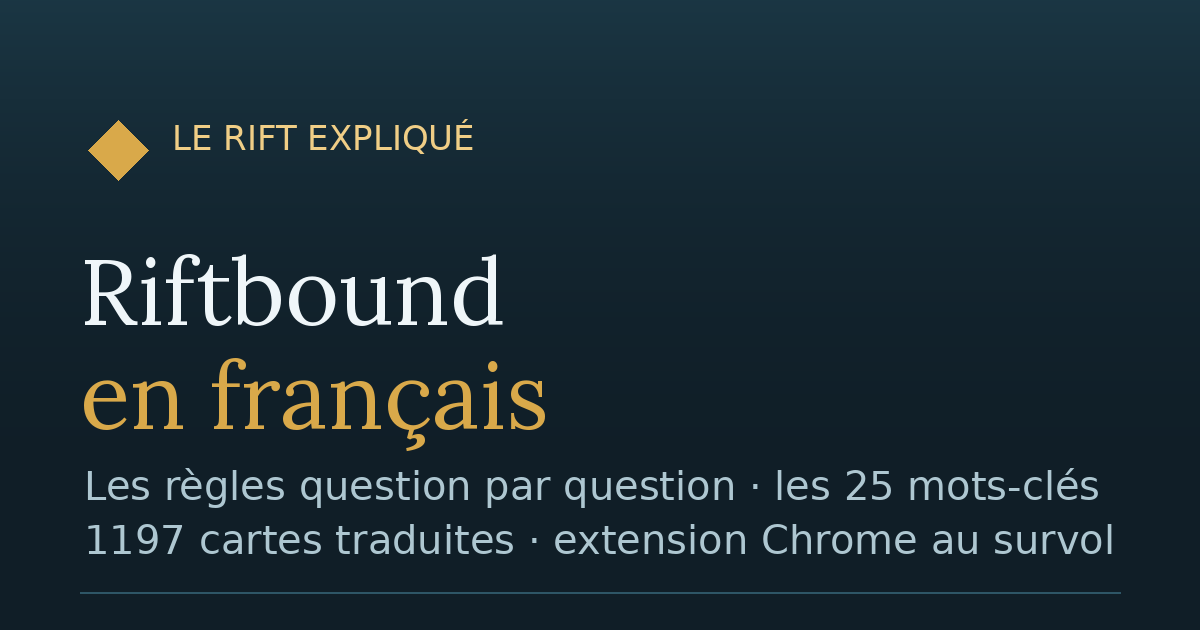
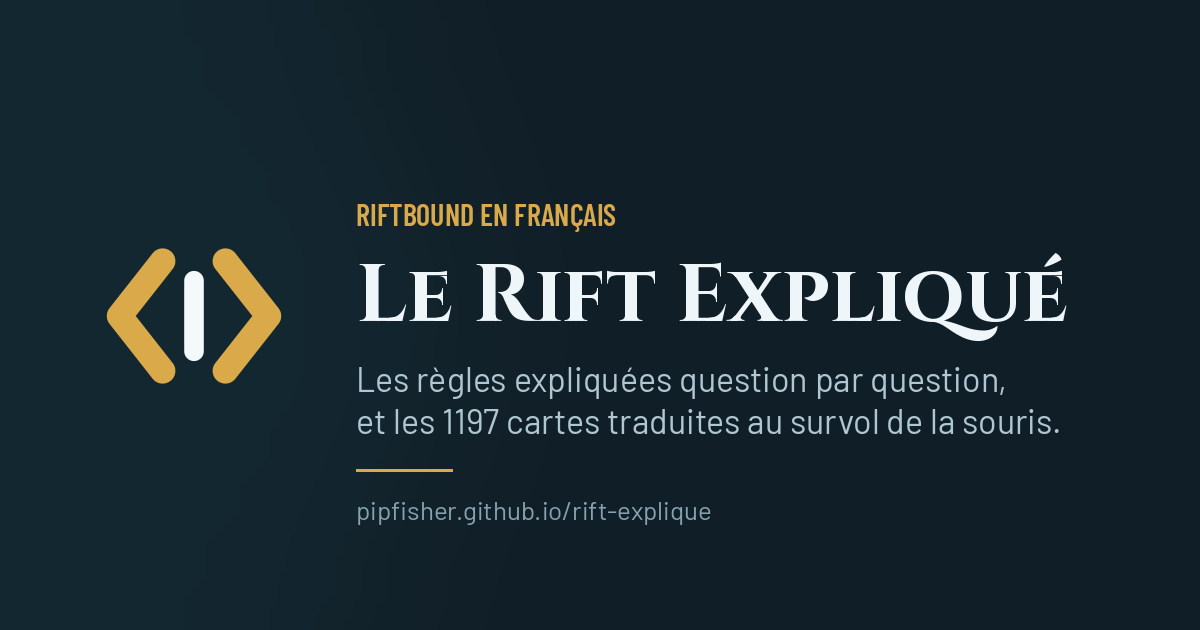
Nouvelle marque : les guillemets
Le signe du Rift Explique : deux chevrons dores encadrant un trait de lumiere. Les guillemets francais autour de la faille, dessines pour rester lisibles a 16 px, la taille du favicon et de l'icone de l'extension.

Remplace le losange provisoire dans le bandeau, le favicon, l'icone iOS et l'image d'apercu partagee sur Discord.

Claude-Session: https://claude.ai/code/session_01PAsmYabPd41MRLonzDUCGE

diff --git a/index.html b/index.html
@@ -29,13 +29,18 @@
 <link rel="preconnect" href="https://fonts.googleapis.com">
 <link rel="preconnect" href="https://fonts.gstatic.com" crossorigin>
 <link rel="stylesheet" href="https://fonts.googleapis.com/css2?family=Cinzel:wght@500;700&family=Barlow:wght@400;500;600&family=Barlow+Condensed:wght@500;600;700&display=swap">
-<link rel="stylesheet" href="style.css?v=25">
+<link rel="stylesheet" href="style.css?v=26">
 </head>
 <body>
 
 <header class="topbar">
   <button class="brand" id="brand" type="button" title="Découvrir l'extension Chrome">
-    <span class="brand-mark" aria-hidden="true"></span>
+    <svg class="brand-mark" viewBox="0 0 100 100" aria-hidden="true" focusable="false">
+      <g fill="none" stroke="#D9A94A" stroke-width="13" stroke-linecap="round" stroke-linejoin="round">
+        <path d="M34 22 L12 50 L34 78"/><path d="M66 78 L88 50 L66 22"/>
+      </g>
+      <path d="M50 32 L50 68" fill="none" stroke="#F4FAFC" stroke-width="10" stroke-linecap="round"/>
+    </svg>
     <span class="brand-name">Le Rift Expliqué</span>
   </button>
   <nav class="tabs" id="tabs" role="tablist">
@@ -73,13 +78,13 @@
   <p class="foot-ext">Les mêmes traductions existent en <strong>extension Chrome</strong> : elles s'affichent au survol de la souris sur Rift Atlas et dans le simulateur de parties. <a href="https://github.com/PIPFisher/rift-explique/tree/main/extension" target="_blank" rel="noopener">Installation en 5 minutes&nbsp;↗</a></p>
 </footer>
 
-<script src="cards-data.js?v=25"></script>
-<script src="rb-fr.js?v=25"></script>
-<script src="rb-core.js?v=25"></script>
+<script src="cards-data.js?v=26"></script>
+<script src="rb-fr.js?v=26"></script>
+<script src="rb-core.js?v=26"></script>
 <script src="rb-regles-data.js?v=20"></script>
 <script src="rb-regles.js?v=20"></script>
-<script src="rb-rules.js?v=25"></script>
-<script src="rb-extension.js?v=25"></script>
-<script src="rb-app.js?v=25"></script>
+<script src="rb-rules.js?v=26"></script>
+<script src="rb-extension.js?v=26"></script>
+<script src="rb-app.js?v=26"></script>
 </body>
 </html>

diff --git a/style.css b/style.css
@@ -70,10 +70,8 @@ a{color:var(--gold-soft)}
 .brand:active:not(:disabled){transform:none}
 .brand:focus-visible{outline:2px solid var(--gold);outline-offset:2px}
 .brand-mark{
-  width:16px;height:16px;flex:none;
-  background:linear-gradient(135deg,var(--gold),#8A5F1E);
-  transform:rotate(45deg);
-  border-radius:2px;
+  width:21px;height:21px;flex:none;
+  transition:filter .15s;
 }
 .brand-name{
   font-family:var(--serif);font-weight:700;font-size:17px;letter-spacing:.02em;
